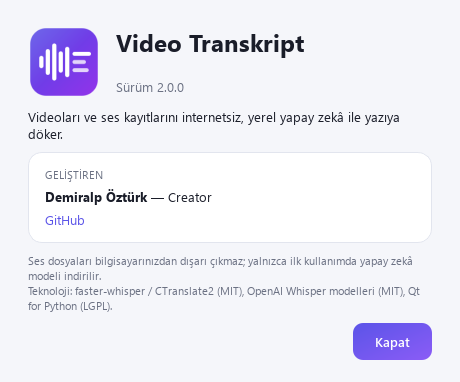
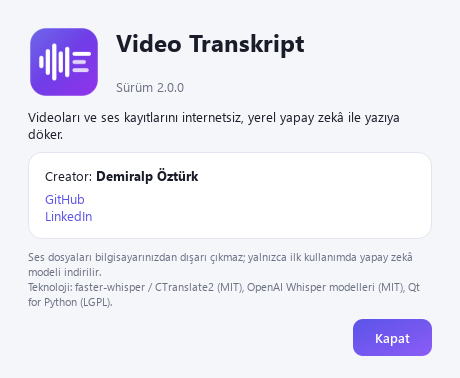
Creator imzası, LinkedIn ve proje yapısı
- Üst bilgi, alt bilgi ve Hakkında: "Creator: Demiralp Öztürk", GitHub ve LinkedIn bağlantıları
- app_info.py: LinkedIn adresi
- README: Creator satırı (TR + EN), her dosyayı açıklayan proje yapısı ağacı
- Ekran görüntüleri yeni imzayla yenilendi

diff --git a/arayuz.py b/arayuz.py
@@ -527,8 +527,7 @@ class HakkindaPenceresi(QDialog):
         kart = _kart()
         kl = QVBoxLayout(kart)
         kl.setContentsMargins(16, 14, 16, 14)
-        kl.addWidget(_etiket("GELİŞTİREN", "kucuk"))
-        kl.addWidget(_etiket(f"<b>{app_info.CREATOR}</b> — {app_info.CREATOR_ROLE}"))
+        kl.addWidget(_etiket(f"{app_info.CREATOR_ROLE}: <b>{app_info.CREATOR}</b>"))
         baglantilar = _etiket(baglanti_html(renkler, ayirici="<br>"))
         baglantilar.setOpenExternalLinks(True)
         baglantilar.setTextInteractionFlags(Qt.TextBrowserInteraction)
@@ -651,16 +650,17 @@ class AnaPencere(QMainWindow):
         l.addLayout(yazi, 1)
         imza = QVBoxLayout()
         imza.setSpacing(0)
-        e = _etiket(f"by <b>{app_info.CREATOR}</b>", "soluk")
+        e = _etiket(f"{app_info.CREATOR_ROLE}: <b>{app_info.CREATOR}</b>", "soluk")
         e.setAlignment(Qt.AlignRight)
         imza.addWidget(e)
-        e2 = _etiket(app_info.CREATOR_ROLE.upper(), "kucuk")
-        e2.setAlignment(Qt.AlignRight)
-        imza.addWidget(e2)
         l.addLayout(imza)
         self.github_btn = _dugme("GitHub", "duz", app_info.GITHUB)
         self.github_btn.clicked.connect(lambda: QDesktopServices.openUrl(QUrl(app_info.GITHUB)))
         l.addWidget(self.github_btn)
+        if app_info.LINKEDIN:
+            self.linkedin_btn = _dugme("LinkedIn", "duz", app_info.LINKEDIN)
+            self.linkedin_btn.clicked.connect(lambda: QDesktopServices.openUrl(QUrl(app_info.LINKEDIN)))
+            l.addWidget(self.linkedin_btn)
         self.tema_btn = _dugme("", "duz", "Tema: sistem / açık / koyu")
         self.tema_btn.clicked.connect(self._tema_degistir)
         l.addWidget(self.tema_btn)
@@ -1040,7 +1040,7 @@ class AnaPencere(QMainWindow):
         self.tema_btn.setText(adlar.get(self.tema_secimi, "Sistem"))
         self.tema_btn.setIcon(_tema_ikonu(self.tema_secimi, self.renkler["soluk"]))
         self.tema_btn.setIconSize(QSize(16, 16))
-        self.alt_baglanti.setText(f"© 2026 <b>{app_info.CREATOR}</b> — {app_info.CREATOR_ROLE} · "
+        self.alt_baglanti.setText(f"© 2026 · {app_info.CREATOR_ROLE}: <b>{app_info.CREATOR}</b> · "
                                   + baglanti_html(self.renkler))
         self._sonuc_ikonu_ciz()
 

diff --git a/app_info.py b/app_info.py
@@ -13,5 +13,5 @@ DESCRIPTION = "Videoları ve ses kayıtlarını internetsiz, yerel yapay zekâ i
 CREATOR = "Demiralp Öztürk"
 CREATOR_ROLE = "Creator"
 GITHUB = "https://github.com/demiralpozturk"
-LINKEDIN = ""  # ör. "https://www.linkedin.com/in/kullanici-adi"
+LINKEDIN = "https://www.linkedin.com/in/demiralp-%C3%B6zt%C3%BCrk/"
 EMAIL = ""     # ör. "ad@ornek.com"

diff --git a/README.md b/README.md
@@ -6,7 +6,7 @@
 
 <p align="center">
   Videoları ve ses kayıtlarını <b>internetsiz, yerel yapay zekâ</b> ile yazıya döken Windows uygulaması.<br>
-  <sub>Geliştiren: <b>Demiralp Öztürk</b> — Creator · <a href="https://github.com/demiralpozturk">GitHub</a></sub>
+  <sub><b>Creator: Demiralp Öztürk</b> · <a href="https://github.com/demiralpozturk">GitHub</a> · <a href="https://www.linkedin.com/in/demiralp-%C3%B6zt%C3%BCrk/">LinkedIn</a></sub>
 </p>
 
 ---
@@ -68,6 +68,27 @@ powershell -ExecutionPolicy Bypass -File build.ps1 -Kisayol
 Python 3.12, `requirements.txt` ve PyInstaller gerekir. Çıktı: `dist\VideoTranskript\` (onedir) ve
 masaüstünde **Video Transkript** kısayolu. Yapımcı bilgileri (LinkedIn, e-posta) tek yerde: `app_info.py`.
 
+## Proje yapısı
+
+Her dosya tek bir işi yapıyor; GitHub'da istediğin dosyayı açıp adım adım takip edebilirsin.
+
+```text
+video-transkript/
+├── main.py               giriş noktası: arayüzü açar, --selftest ve --ekran-goruntusu komutları
+├── arayuz.py             PySide6 arayüzü: 4 adım, canlı transkript, tema, Hakkında penceresi
+├── motor.py              transkript motoru: ses çözme, model indirme, faster-whisper, çıktılar, devam mantığı
+├── deneme.py             self-test için Windows Türkçe sesiyle deneme kaydı üretir
+├── app_info.py           uygulama adı, sürüm, Creator ve bağlantılar (tek yer)
+├── ikon.py               simgeyi çizer
+├── araclar/ikon_uret.py  assets/icon.png ve icon.ico dosyalarını üretir
+├── assets/               uygulama simgesi
+├── docs/                 README'deki ekran görüntüleri
+├── build.ps1             PyInstaller ile derler, isteğe bağlı masaüstü kısayolu oluşturur
+├── VideoTranskript.spec  PyInstaller paket tanımı
+├── version_info.txt      exe sürüm bilgisi
+└── requirements.txt      bağımlılıklar
+```
+
 | Dosya | Görev |
 |---|---|
 | `motor.py` | Ses çözme, model indirme/yükleme, transkript, çıktı yazma, devam mantığı (arayüzden bağımsız) |
@@ -85,7 +106,9 @@ live transcript → results), drag & drop, batch processing with resume, live pe
 elapsed/remaining time and real-time speed, and exports TXT, timestamped TXT, SRT and VTT. Audio never leaves the
 computer; only the chosen model is downloaded once. Built with PySide6 and packaged with PyInstaller.
 
+**Creator: Demiralp Öztürk** — [GitHub](https://github.com/demiralpozturk) · [LinkedIn](https://www.linkedin.com/in/demiralp-%C3%B6zt%C3%BCrk/)
+
 ---
 
-<sub>© 2026 Demiralp Öztürk — Creator. faster-whisper / CTranslate2 (MIT), OpenAI Whisper modelleri (MIT),
+<sub>© 2026 · Creator: Demiralp Öztürk. faster-whisper / CTranslate2 (MIT), OpenAI Whisper modelleri (MIT),
 Qt for Python (LGPL).</sub>
